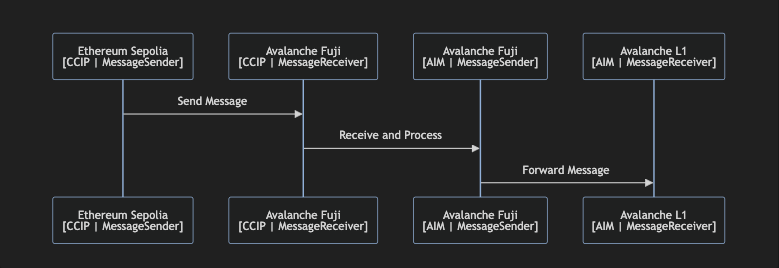
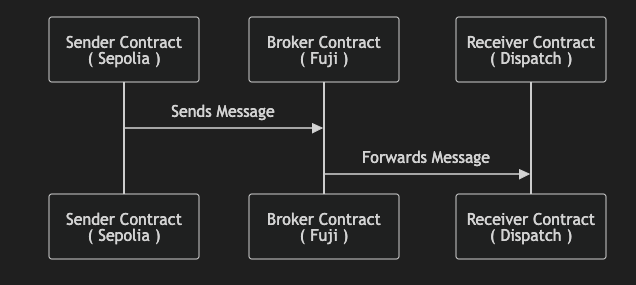
update: README, messaging-process img, gitignore, .env.example, broker and deploy scripts

Changed region(s): [[0.0597, 0.0299, 0.956, 0.9254]]

diff --git a/README.md b/README.md
@@ -1,39 +1,48 @@
 > _This repository represents an example of using a Chainlink product or service. It is provided to help you understand how to interact with Chainlink’s systems so that you can integrate them into your own. This template is provided "AS IS" without warranties of any kind, has not been audited, and may be missing key checks or error handling to make the usage of the product more clear. Take everything in this repository as an example and not something to be copy pasted into a production ready service._
 
 # ccip-avalanche
-Example demonstrating how to use CCIP to send data from Ethereum to an Avalanche L1.
+Demonstrating how to use Chainlink Cross-Chain Interoperobility Protocol (CCIP) and Avalanche Interchain Messaging (ICM) to send a message from Ethereum Sepolia to Avalanche Fuji (_via CCIP_), then forwarding that message from Avalanche Fuji to Dispatch L1 (_via ICM_).
 
 ## What is Chainlink CCIP?
 
 **Chainlink Cross-Chain Interoperability Protocol (CCIP)** provides a single, simple, and elegant interface through which dApps and web3 entrepreneurs can securely meet all their cross-chain needs, including token transfers and arbitrary messaging.
 
-![basic-architecture](./img/basic-architecture.png)
+<!-- ![basic-architecture](./img/basic-architecture.png) -->
 
-Receiver in our example must be a smart contract that implements `CCIPReceiver.sol`, **but if you send a message and token(s) to EOA, only tokens will arrive**.
+<!-- ```mermaid
+sequenceDiagram
+    participant Sender as Sender Contract<br/>( Sepolia )
+    participant Broker as Broker Contract<br/>( Fuji )
+    participant Receiver as Receiver Contract<br/>( Dispatch )
 
-## Getting Started
+    Sender->>Broker: Sends Message
+    Broker->>Receiver: Forwards Message
+``` -->
+
+# Getting Started
 
 In the next section you can see how to send data from one chain to another. But before that, you need to set up some environment variables, install dependencies, setup environment variables, and compile contracts.
 
-### A. Install Dependencies
-```shell
+## 1. Install Dependencies
+```bash
 yarn && make
 ```
 
-### B. Setup Environment Variables
+## 2. Setup Environment Variables
+Run the command below, then update the .env `PRIVATE_KEY` and `ETHERSCAN-API-KEY` variables.
 
-```shell
+```bash
 cp .env.example .env && source .env
 ```
 
-### C. Create Wallet
-For deploying on testnet, we cannot use the airdrop wallet, since the private key is commonly known. To create a new wallet that is stored in a keystore, issue the following command. It will prompt you to secure the private key with a password.
+## 3. Create Wallet
+To create a new wallet that is stored in a keystore, issue the following command, which will prompt you to secure the private key with a password.
 
 ```bash
-cast wallet import --private-key $PK -k keystore $ACCOUNT_NAME 
+cast wallet import --private-key $PRIVATE_KEY -k keystore $ACCOUNT_NAME 
 ```
 
-For easier use of the keystore we already configured a envorinment variable called `KEYSTORE` pointing to the `keystore` file in the working directory.
+For ease use of the keystore we already configured a environment variable called `KEYSTORE` pointing to the `keystore` file in the working directory.
 
 You can use the wallet stored in the keystore by adding the `--keystore` flag instead of the `--private-key` flag.
 
@@ -41,27 +50,30 @@ You can use the wallet stored in the keystore by adding the `--keystore` flag in
 cast wallet address --keystore $KEYSTORE
 ```
 
-# Process Design Overview
+## 4. Prepare Smart Contracts
+
+### Smart Contract Design
 ![messaging-process](./img/messaging-process.png)
 
-# Setup Messengers
-- **We will implement 2 cross-chain solutions in this demonstration to facilitate a crosschain data transfer**:
-    1. Chainlink CCIP; and
-    2. Avalanche Interchain Messaging (AIM)
-
-## 1. Deploy Smart Contracts
+### A. Deploy Smart Contracts
 In order to interact with our contracts, we first need to deploy them, which is simplified in the [`script/Deploy.s.sol`](./script/Deploy.s.sol) smart contract. 
 
 We have package scripts that enable you to deploy contracts, as follows:
 
 ```shell
-yarn deploy:sender && yarn deploy:broker && yarn deploy:receiver
+yarn deploy:sender
 ```
-- [`MessageSender.sol`](./src/MessageSender.sol)
-- [`MessageBroker.sol`](./src/MessageBroker.sol)
-- [`MessageReceiver.sol`](./src/MessageReceiver.sol)
+> [`MessageSender.sol`](./src/MessageSender.sol)
+```shell
+yarn deploy:broker
+```
+>[`MessageBroker.sol`](./src/MessageBroker.sol)
+```shell
+yarn deploy:receiver
+```
+>[`MessageReceiver.sol`](./src/MessageReceiver.sol)
 
-## 2. Fund Message Sender Contract
+### B. Fund Message Sender Contract
 
 After acquiring testnet tokens, you will proceed with funding your [Message Sender Contract](./src/MessageSender.sol) with some native tokens (ETH).
 
@@ -101,7 +113,7 @@ forge script ./script/Send.s.sol:GetLatestMessageDetails -vvv --broadcast --rpc-
 # Key Addresses
 
 **`MessageSender.sol`**
-[0x1272d0C7CBDD78d4dc2F35F6bB5B9c40fe944dA7](https://sepolia.etherscan.io/address/0x1272d0C7CBDD78d4dc2F35F6bB5B9c40fe944dA7#code)
+[0x1272d0C7CBDD78d4dc2F35F6bB5B9c40fe944dA7](https://eth-sepolia.blockscout.com/address/0x1272d0C7CBDD78d4dc2F35F6bB5B9c40fe944dA7?tab=contract)
 
 **`MessageBroker.sol`**
 [0x0a10A4AfE5E852bdaE91678f98fE71168B048e41](https://testnet.snowtrace.io/address/0x0a10A4AfE5E852bdaE91678f98fE71168B048e41)
@@ -128,26 +140,26 @@ forge script ./script/Send.s.sol:GetLatestMessageDetails -vvv --broadcast --rpc-
 
 ### Sepolia Example
 ```shell
-forge verify-contract $MESSAGE_SENDER_ADDRESS MessageSender 
---rpc-url 'https://sepolia.drpc.org' 
---etherscan-api-key "$ETHERSCAN_API_KEY" 
---verifier etherscan 
---constructor-args $(cast abi-encode "constructor(address _routerAddress)" $ROUTER_ADDRESS)
+forge verify-contract $MESSAGE_SENDER_ADDRESS src/MessageSender.sol:MessageSender \
+--rpc-url 'https://eth-sepolia.public.blastapi.io' \
+--verifier blockscout \
+--verifier-url 'https://eth-sepolia.blockscout.com/api/' \
 ```
 
 ### Fuji Example
 ```shell
-forge verify-contract $MESSAGE_BROKER_ADDRESS src/MessageBroker.sol:MessageBroker 
---rpc-url 'https://api.avax-test.network/ext/bc/C/rpc'
---verifier-url 'https://api.routescan.io/v2/network/testnet/evm/43113/etherscan'
+forge verify-contract $MESSAGE_BROKER_ADDRESS src/MessageBroker.sol:MessageBroker \
+--rpc-url 'https://api.avax-test.network/ext/bc/C/rpc' \
+--verifier-url 'https://api.routescan.io/v2/network/testnet/evm/43113/etherscan' \
 --etherscan-api-key "verifyContract"
 ```
 
 ### Dispatch Example
 ```shell
-forge verify-contract $MESSAGE_RECEIVER_ADDRESS src/MessageReceiver.sol:MessageReceiver 
---rpc-url 'https://subnets.avax.network/dispatch/testnet/rpc'
---verifier-url 'https://api.routescan.io/v2/network/testnet/evm/779672/etherscan' 
+forge verify-contract 0x0d0debEFCaC433885a51B32c359Cc971522F29cD src/MessageReceiver.sol:MessageReceiver \
+--rpc-url 'https://subnets.avax.network/dispatch/testnet/rpc' \
+--verifier-url 'https://api.routescan.io/v2/network/testnet/evm/779672/etherscan' \
+--verifier etherscan \
 --etherscan-api-key "verifyContract"
 ```
 
